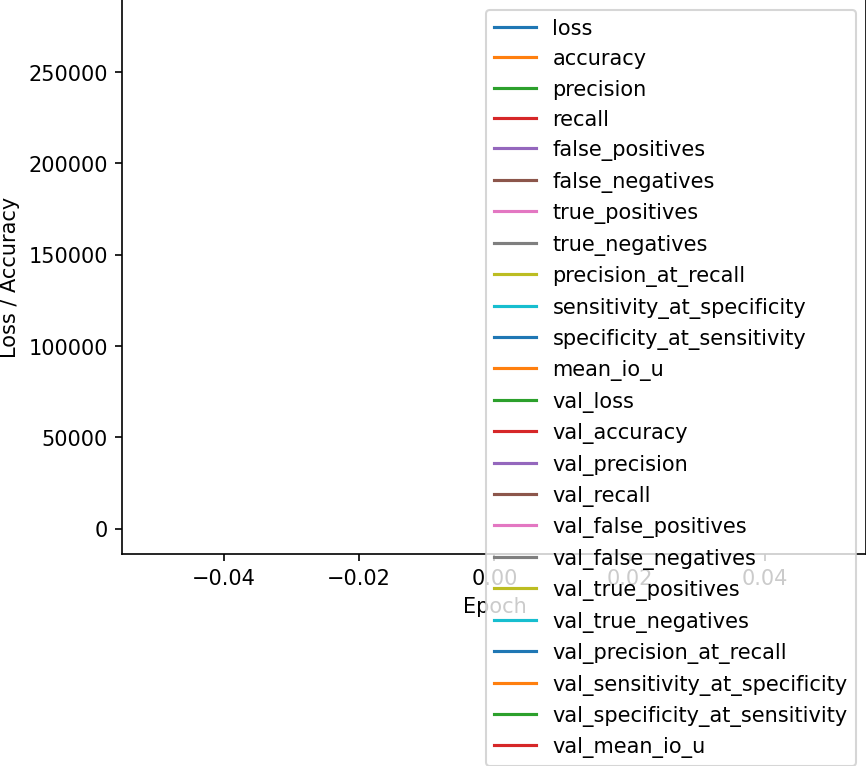
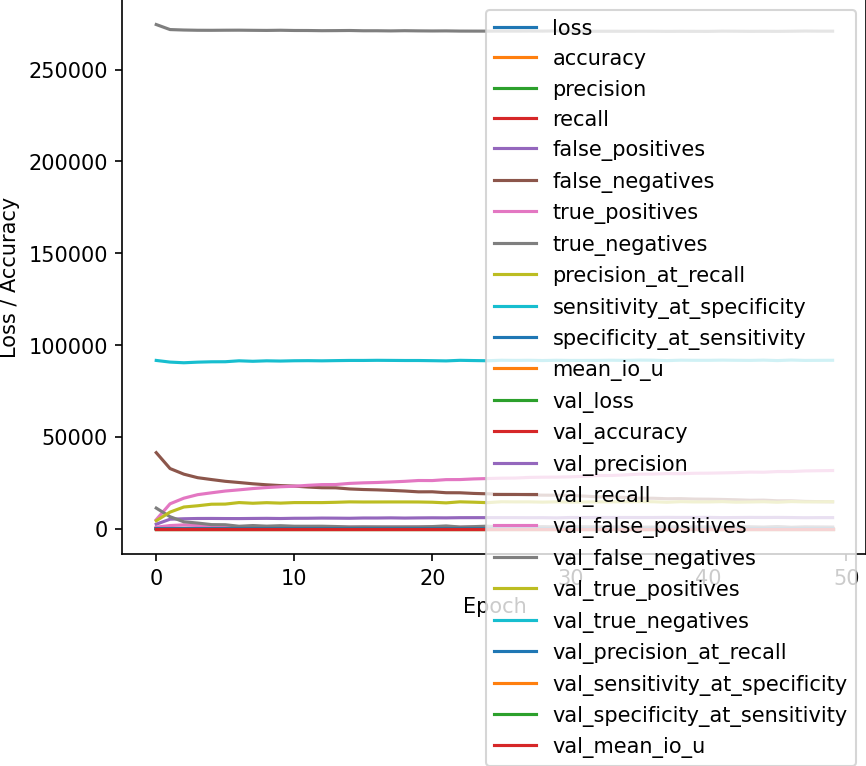
Added new plots

diff --git a/src/training.py b/src/training.py
@@ -115,6 +115,30 @@ def split_for_training(x_all, y_all, t_percentage):
     return x_train, x_test, y_train, y_test
 
 
+# Function to plot
+def plotting(hist):
+    # Saving the plots and metrics
+    # convert the history.history dict to a pandas DataFrame:
+    hist_df = pd.DataFrame(hist.history)
+
+    with open(metrics_path + "/plots.csv", mode='w') as f:
+        hist_df.to_csv(f, index_label='epoch')
+
+    with open(metrics_path + "/scores.json", mode='w') as f:
+        hist_df.to_json(f, orient='records', lines=True)
+
+    # Saving training history plot
+    plt.figure()
+    plt.ylabel('Loss / Accuracy')
+    plt.xlabel('Epoch')
+
+    for k in hist_df.keys():
+        plt.plot(history.history[k], label=k)
+
+    plt.legend(loc='best')
+    plt.savefig("plots/train_history.png", dpi=150, bbox_inches='tight', pad_inches=0)
+
+
 # Loading the parameters
 params_file = sys.argv[1]
 
@@ -203,35 +227,5 @@ if show_summary:
     Path('images').mkdir(parents=True, exist_ok=True)
     tf.keras.utils.plot_model(cnn, to_file='images/model.png', dpi=200)
 
-# Saving the plots and metrics
-# convert the history.history dict to a pandas DataFrame:
-hist_df = pd.DataFrame(history.history)
-
-metrics_data = {'loss': hist_df['loss'].mean(), 'accuracy': hist_df['accuracy'].mean(),
-                'precision': hist_df['precision'].mean(), 'recall': hist_df['recall'].mean(),
-                'val_loss': hist_df['val_loss'].mean(), 'false_positives': hist_df['false_positives'],
-                'false_negatives': hist_df['false_negatives'].mean(),
-                'true_positives': hist_df['true_positives'].mean(),
-                'true_negatives': hist_df['true_negatives'].mean(),
-                'precision_at_recall': hist_df['precision_at_recall'].mean(),
-                'sensitivity_at_specificity': hist_df['sensitivity_at_specificity'].mean(),
-                'specificity_at_sensitivity': hist_df['specificity_at_sensitivity'].mean(),
-                'mean_io_u': hist_df['mean_io_u']}
-metrics_df = pd.DataFrame.from_records([metrics_data])
-
-with open(metrics_path + "/plots.csv", mode='w') as f:
-    metrics_df.to_csv(f, index_label='epoch')
-
-with open(metrics_path + "/scores.json", mode='w') as f:
-    metrics_df.to_json(f)
-
-# Saving training history plot
-plt.figure()
-plt.ylabel('Loss / Accuracy')
-plt.xlabel('Epoch')
-
-for k in hist_df.keys():
-    plt.plot(history.history[k], label=k)
-
-plt.legend(loc='best')
-plt.savefig("plots/train_history.png", dpi=150, bbox_inches='tight', pad_inches=0)
+# Plotting
+plotting(history)
